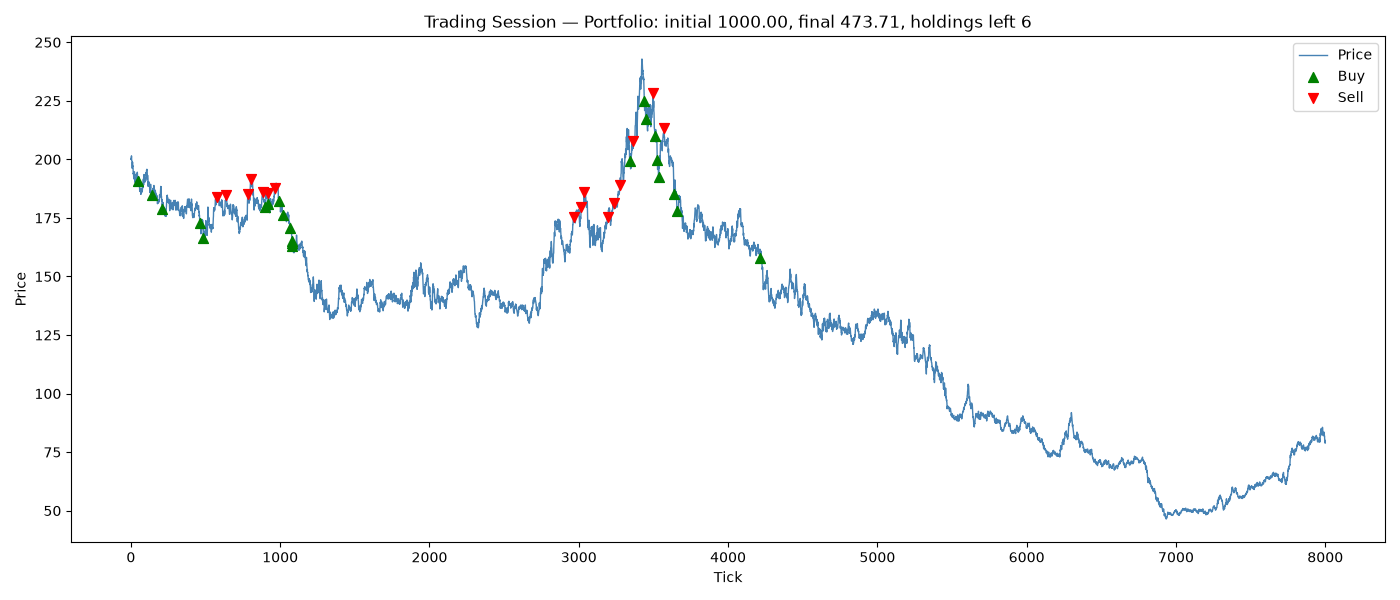
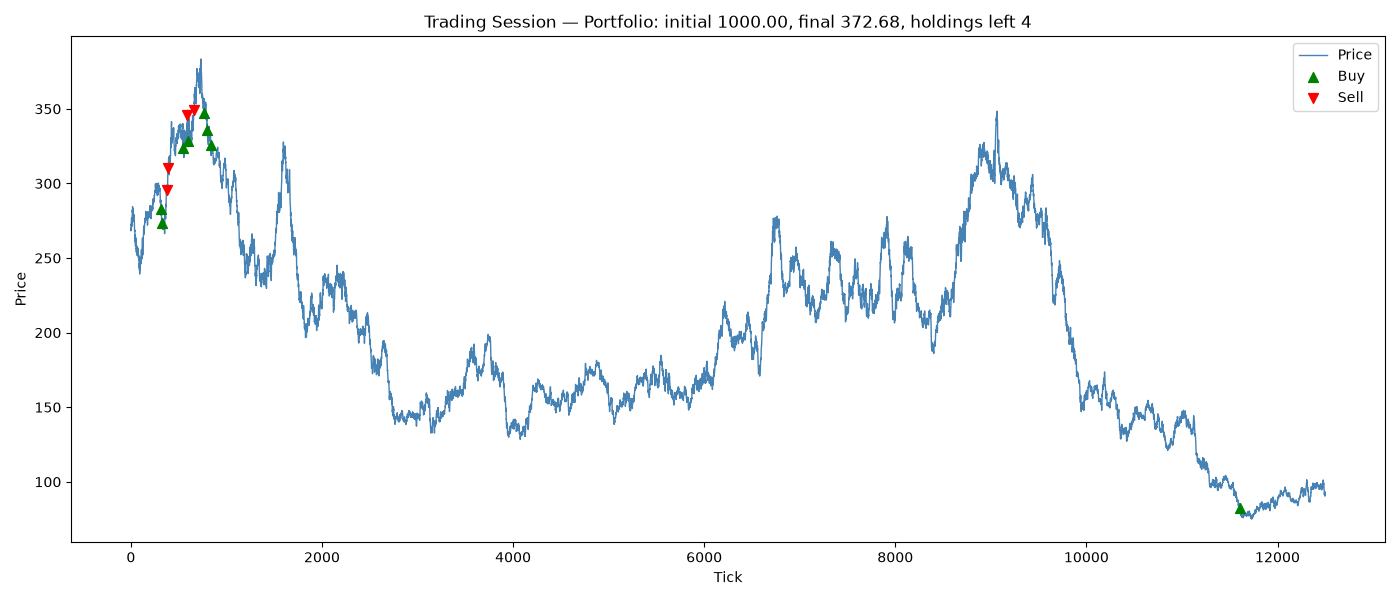
fixed the price movement to low level on huge interval

diff --git a/agent.py b/agent.py
@@ -3,7 +3,7 @@ from statistics import fmean, pstdev
 
 class TradingAgent:
 
-    def __init__(self, windowLen = 50, k = 1, minMargin = 0.03):
+    def __init__(self, windowLen = 150, k = 1, minMargin = 0.03):
         self._window = deque(maxlen = windowLen)
         self._k = k
         self._minMargin = minMargin
@@ -32,26 +32,22 @@ class TradingAgent:
         mu = fmean(self._window)
         sigma = pstdev(self._window)
         inDemandZone = (sigma > 0 and price < mu - self._k * sigma)
-        inSupplyZone = (sigma > 0 and price > mu + self._k * sigma)
-
-        if inDemandZone:
-            self._lastSellPrice = price
-
 
         isBetterPriceToBuy = (price < self._lastBuyPrice * (1 - self._minMargin) or price <= atl or self._lastBuyPrice == 0)
         isBetterPriceToSell = (price > self._lastSellPrice * (1 + self._minMargin) or price >= ath or self._lastSellPrice == 0)
 
 
-        if inDemandZone and isBetterPriceToBuy and budget >= price and not inSupplyZone:
+        if inDemandZone and isBetterPriceToBuy and budget >= price:
             self._averageBuyPrice = (holdings * self._averageBuyPrice + price) / (holdings +1)
             self._lastBuyPrice = price
-            self._lastSellPrice = mu + self._k * sigma
+            self._lastSellPrice = self._averageBuyPrice * (1 + self._minMargin)
             return "buy"
 
 
 
         elif holdings > 0 and price > self._averageBuyPrice * (1 + self._minMargin) and isBetterPriceToSell:
             self._lastSellPrice = price
+            self._lastBuyPrice = self._averageBuyPrice * (1 - self._minMargin)
             return "sell"
 
         return "hold"

diff --git a/priceSimulator.py b/priceSimulator.py
@@ -8,13 +8,15 @@ class PriceSimulator:
         "sideway": {"mu": 0, "sigma": 0.006}
     }
 
-    def __init__(self, seed, startingPrice, regimeWeight = None, minimalRegimeDuration = 50, maximalRegimeDuration = 200,):
+    def __init__(self, seed, startingPrice, regimeWeight = None, minimalRegimeDuration = 50, maximalRegimeDuration = 200):
         if startingPrice <= 0:
             raise ValueError("starting price must be positive")
         if minimalRegimeDuration <= 0 or maximalRegimeDuration < minimalRegimeDuration:
             raise ValueError("invalid regime duration bounds")
 
         self._randomNumberGenerator = random.Random(seed);
+        self._ltm = startingPrice
+        self._theta = 0.0002
         self._dt = 1.0
         self._minimalRegimeDuration = minimalRegimeDuration
         self._maximalRegimeDuration = maximalRegimeDuration
@@ -51,10 +53,11 @@ class PriceSimulator:
 
         params = self.regimes[self._regime]
         z = self._randomNumberGenerator.gauss(0, 1)
+        reversion = self._theta * (self._ltm - self.currentPrice) / self._ltm
 
-        # log-return update — price stays strictly positive by construction
         log_return = (
                 (params["mu"] - 0.5 * params["sigma"] ** 2) * self._dt
+                + reversion * self._dt
                 + params["sigma"] * math.sqrt(self._dt) * z
         )
         self.currentPrice *= math.exp(log_return)

diff --git a/main.py b/main.py
@@ -5,15 +5,25 @@ from actuator import Actuator
 from resultVizualization import plot_trading_session
 def main():
     a = TradingAgent(k=0.5)
-    env = TradingMarket(19, 200, 259, 165, {"uptrend": 1, "downtrend": 1, "sideway": 3}, 50, 150, 1000)
+    env = TradingMarket(18, 270, 574, 165, {"uptrend": 1, "downtrend": 1, "sideway": 1}, 50, 150, 1000)
     actuator = Actuator(env)
-    for _ in range(8000):
+    for _ in range(12500):
         env.tick()
         perception = env.getPerception()
         action = a.makeDecision(perception)
         actuator.act(action)
+
         if env.isBunkrupt():
             break
+
+    # while not env._holdings == 0:
+    #     env.tick()
+    #     perception = env.getPerception()
+    #     action = a.makeDecision(perception)
+    #     actuator.act(action)
+    print(a._lastBuyPrice)
+
+
     return plot_trading_session(env.getHistory(), env.tradeLog(), env.displayPortfolio(), env.getInitialBduget(), env.getHoldings())
 
 
